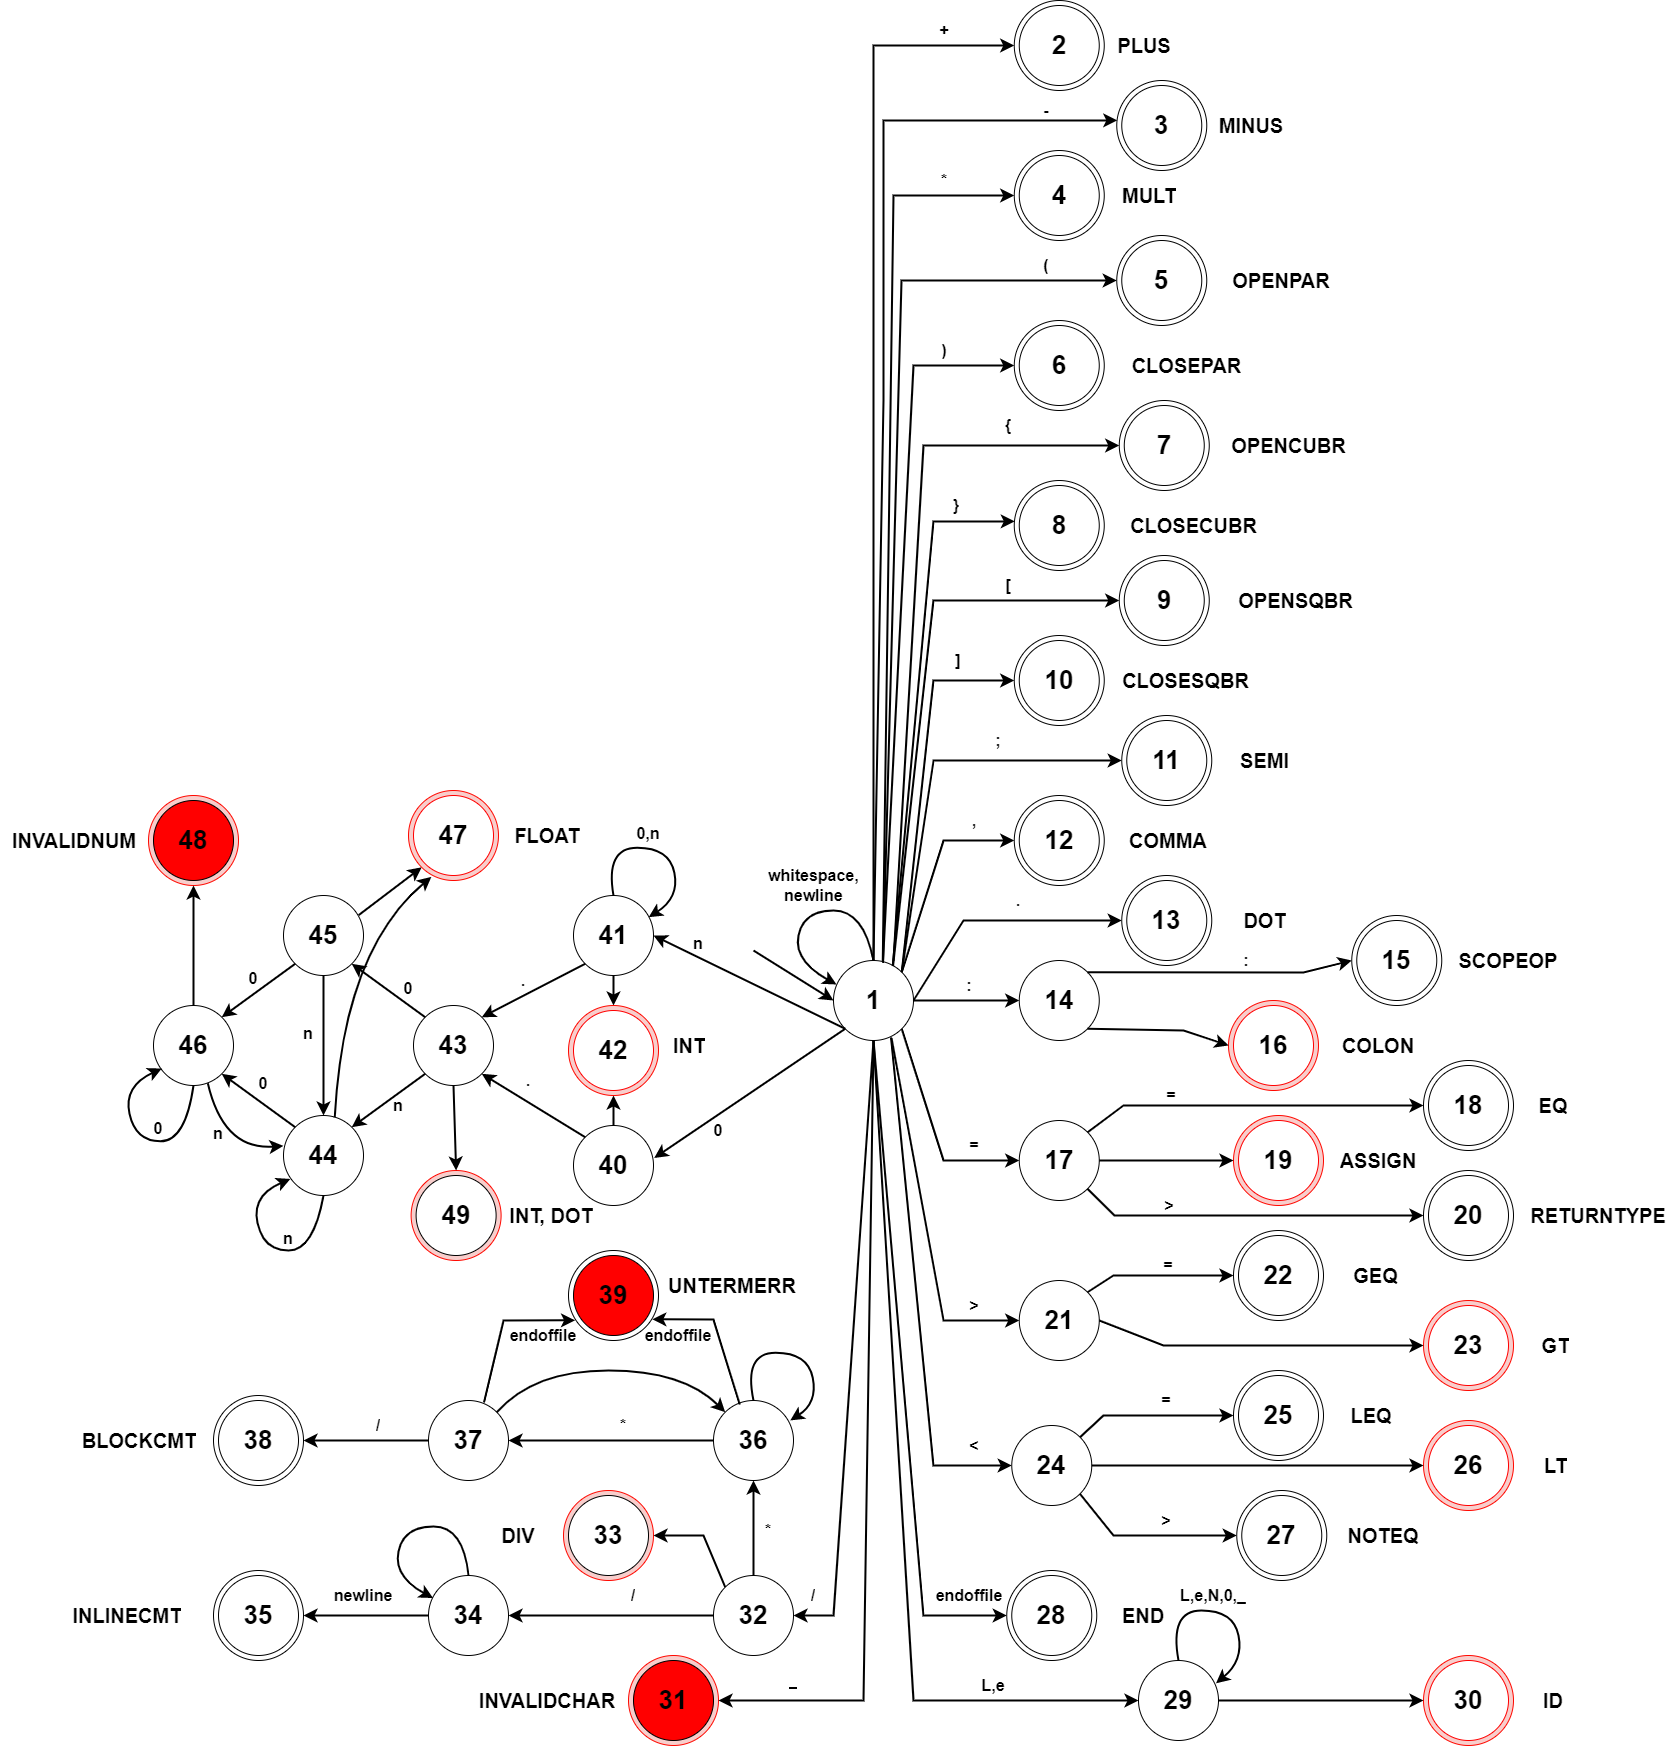
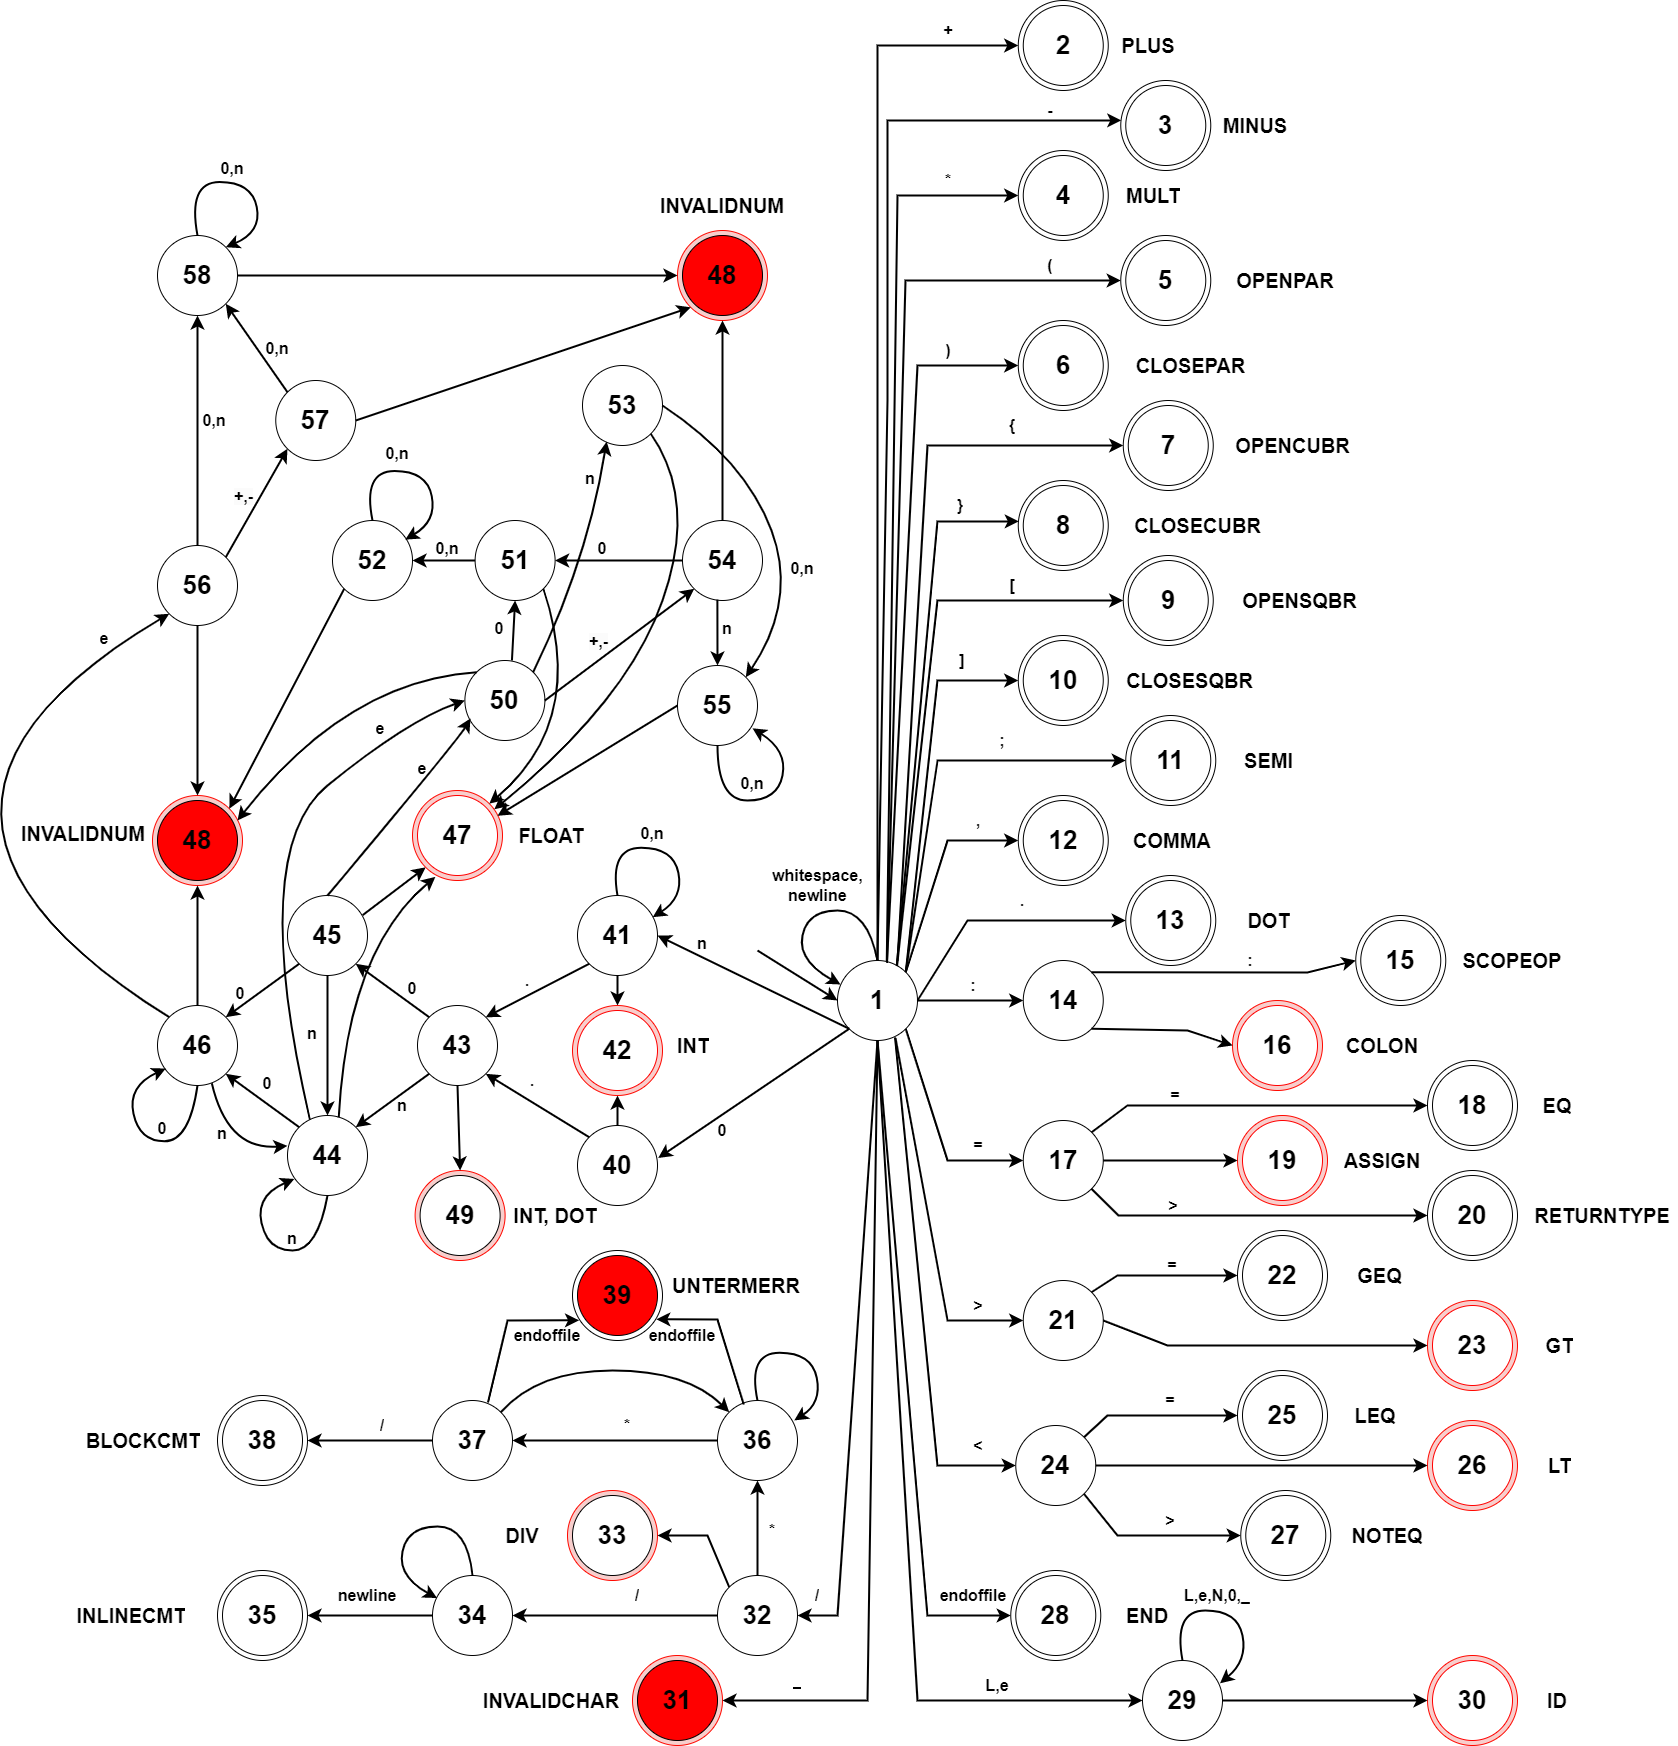
Added implementation for exponential floats, added the remainder of numerical errors. Updated dfa

diff --git a/1-Lexical Analyzer/src/Table.java b/1-Lexical Analyzer/src/Table.java
@@ -68,12 +68,21 @@ class MyTableModel extends AbstractTableModel {
 	       {41,42,42,42,42,42,42,42,42,42,42,42,43,42,42,42,42,42,42,41,41,42,42,42,42,42,42,null,null},
 	       {42,1,1,1,1,1,1,1,1,1,1,1,1,1,1,1,1,1,1,1,1,1,1,1,1,1,1,"intnum","yes"},
 	       {43,49,49,49,49,49,49,49,49,49,49,49,49,49,49,49,49,49,49,45,44,49,49,49,49,49,49,null,null},
-	       {44,47,47,47,47,47,47,47,47,47,47,47,47,47,47,47,47,47,47,46,44,47,47,47,47,47,47,null,null},
-	       {45,47,47,47,47,47,47,47,47,47,47,47,47,47,47,47,47,47,47,46,44,47,47,47,47,47,47,null,null},
-	       {46,48,48,48,48,48,48,48,48,48,48,48,48,48,48,48,48,48,48,46,44,48,48,48,48,48,48,null,null},
+	       {44,47,47,47,47,47,47,47,47,47,47,47,47,47,47,47,47,50,47,46,44,47,47,47,47,47,47,null,null},
+	       {45,47,47,47,47,47,47,47,47,47,47,47,47,47,47,47,47,50,47,46,44,47,47,47,47,47,47,null,null},
+	       {46,48,48,48,48,48,48,48,48,48,48,48,48,48,48,48,48,56,48,46,44,48,48,48,48,48,48,null,null},
 	       {47,1,1,1,1,1,1,1,1,1,1,1,1,1,1,1,1,1,1,1,1,1,1,1,1,1,1,"floatnum","yes"},
 	       {48,1,1,1,1,1,1,1,1,1,1,1,1,1,1,1,1,1,1,1,1,1,1,1,1,1,1,"invalidnum","yes"},
-	       {49,1,1,1,1,1,1,1,1,1,1,1,1,1,1,1,1,1,1,1,1,1,1,1,1,1,1,"invaliddot","yes"},
+	       {49,1,1,1,1,1,1,1,1,1,1,1,1,1,1,1,1,1,1,1,1,1,1,1,1,1,1,"intnum",null},
+	       {50,54,54,48,48,48,48,48,48,48,48,48,48,48,48,48,48,48,48,51,53,48,48,48,48,48,48,null,null},
+	       {51,47,47,47,47,47,47,47,47,47,47,47,47,47,47,47,47,47,47,52,52,47,47,47,47,47,47,null,null},
+	       {52,48,48,48,48,48,48,48,48,48,48,48,48,48,48,48,48,48,48,52,52,48,48,48,48,48,48,null,null},
+	       {53,47,47,47,47,47,47,47,47,47,47,47,47,47,47,47,47,47,47,55,55,47,47,47,47,47,47,null,null},
+	       {54,48,48,48,48,48,48,48,48,48,48,48,48,48,48,48,48,48,48,51,55,48,48,48,48,48,48,null,null},
+	       {55,47,47,47,47,47,47,47,47,47,47,47,47,47,47,47,47,47,47,55,55,47,47,47,47,47,47,null,null},
+	       {56,57,57,48,48,48,48,48,48,48,48,48,48,48,48,48,48,48,48,58,58,48,48,48,48,48,48,null,null},
+	       {57,48,48,48,48,48,48,48,48,48,48,48,48,48,48,48,48,48,48,58,58,48,48,48,48,48,48,null,null},
+	       {58,48,48,48,48,48,48,48,48,48,48,48,48,48,48,48,48,48,48,58,58,48,48,48,48,48,48,null,null},
 	   };
 	 
 	   public int getRowCount() {

diff --git a/1-Lexical Analyzer/src/lexicalanalyzer.java b/1-Lexical Analyzer/src/lexicalanalyzer.java
@@ -74,6 +74,24 @@ public class lexicalanalyzer {
 			// find next state of dfa
 			state = (int) table.getValueAt(state, columnNumber);
 			
+			// special case, check if value after . in float is a number
+			if (state == 40 || state == 41) {
+				try {
+					reader.mark(2);
+					char c1 = nextChar();
+					char c2 = nextChar();
+					if ((int) c1 == 46 && !(isNonZero(c2) || (int) c2 == 48)) {
+						state = 49;
+					} else {
+						
+					}
+					reader.reset();
+				} catch (IOException e) {
+					// TODO Auto-generated catch block
+					e.printStackTrace();
+				}
+			}
+			
 			// check to see if state is final state
 			Object finalValue = table.getValueAt(state, table.findColumn("final"));
 			if (Objects.nonNull(finalValue)) {
